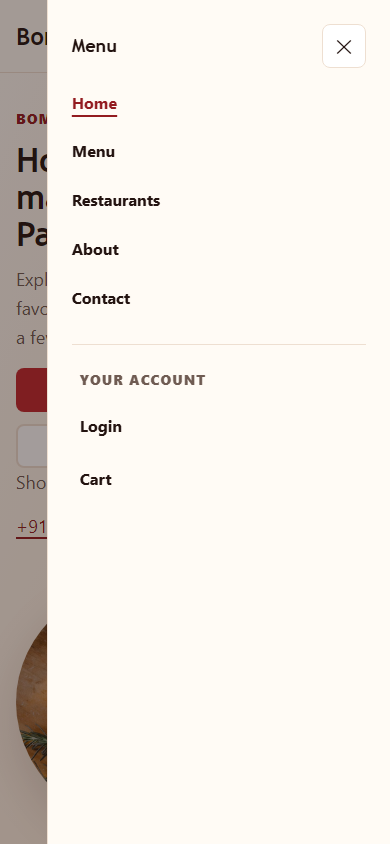
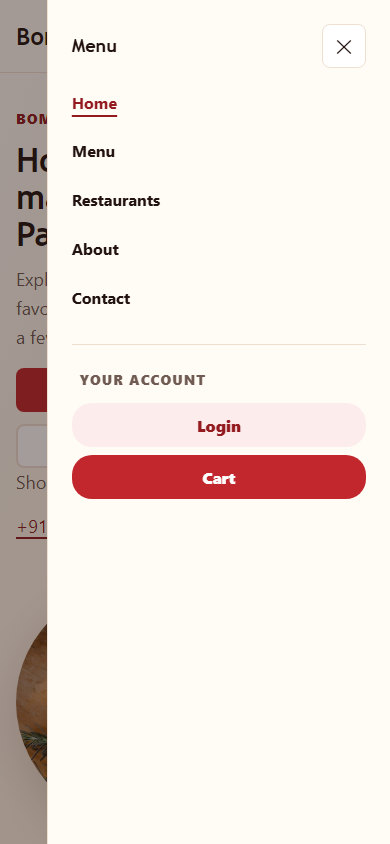
I am fix thinks like add image and nevbar

Changed region(s): [[0.1846, 0.4929, 0.9538, 0.6161]]

diff --git a/css/style.css b/css/style.css
@@ -152,7 +152,8 @@ a:hover { color: var(--color-dark); }
 .hero__meta { display: flex; flex-wrap: wrap; align-items: center; gap: var(--space-2) var(--space-4); }
 .hero__meta__sep { display: none; color: var(--color-muted); }
 
-.category-grid { display: grid; grid-template-columns: repeat(2, minmax(0, 1fr)); gap: var(--space-4); }
+.category-grid { display: grid; grid-template-columns: repeat(2, minmax(0, 1fr)); gap: var(--space-5); }
+.category-section .section__header { margin-bottom: var(--space-7); }
 .category-card { display: grid; justify-items: center; gap: var(--space-2); padding: var(--space-5) var(--space-3); border: 1px solid var(--color-border); border-radius: var(--radius-md); color: var(--color-dark); background: var(--color-surface); font-weight: 800; text-align: center; text-decoration: none; overflow-wrap: anywhere; transition: border-color var(--transition), box-shadow var(--transition), transform var(--transition); }
 .category-card:hover { color: var(--color-dark); border-color: var(--color-primary); box-shadow: var(--shadow-sm); transform: translateY(-3px); }
 .category-card::before { content: attr(data-icon); display: grid; place-items: center; width: 3.25rem; height: 3.25rem; border-radius: 50%; background: var(--color-primary-soft); font-size: var(--text-2xl); }
@@ -166,15 +167,16 @@ a:hover { color: var(--color-dark); }
 .offer-card h3 { margin-top: var(--space-4); color: inherit; }
 .offer-card p { color: inherit; opacity: 0.84; }
 .offer-card strong { font-size: var(--text-lg); }
-.benefit-grid article { padding: var(--space-4) 0; }
-.benefit-icon { display: grid; place-items: center; width: 3rem; height: 3rem; margin-bottom: var(--space-3); border-radius: 50%; color: var(--color-primary-dark); background: var(--color-primary-soft); font-size: var(--text-2xl); }
+.benefit-grid article { height: 100%; padding: var(--space-5); border: 1px solid var(--color-border); border-radius: var(--radius-md); background: var(--color-surface); box-shadow: var(--shadow-sm); transition: box-shadow var(--transition), transform var(--transition); }
+.benefit-grid article:hover { box-shadow: var(--shadow-md); transform: translateY(-3px); }
+.benefit-icon { display: grid; place-items: center; width: 3.5rem; height: 3.5rem; margin-bottom: var(--space-4); border-radius: var(--radius-md); color: var(--color-primary-dark); background: var(--color-primary-soft); font-size: var(--text-2xl); }
 .benefit-grid h3 { margin-bottom: var(--space-2); }
 .benefit-grid p { margin: 0; }
 .review-card { padding: var(--space-5); border-left: 4px solid var(--color-primary); border-radius: 0 var(--radius-md) var(--radius-md) 0; background: var(--color-surface); box-shadow: var(--shadow-sm); }
 .review-card blockquote { margin: var(--space-3) 0; color: var(--color-dark); font-family: var(--font-display); font-size: var(--text-lg); line-height: 1.45; }
 .review-card cite { color: var(--color-muted); font-size: var(--text-xs); font-style: normal; font-weight: 800; }
 .review-card cite span { font-weight: 400; }
-.cta-section { padding-block: var(--space-7); color: #fff; background: var(--color-primary); }
+.cta-section { padding-block: var(--space-7); color: #fff; background-color: var(--color-primary); background-image: linear-gradient(rgb(193 39 45 / 78%), rgb(147 27 32 / 84%)), url("https://images.unsplash.com/photo-1565299624946-b28f40a0ae38?auto=format&fit=crop&w=1600&q=80"); background-size: cover; background-position: center; background-repeat: no-repeat; }
 .cta-section .eyebrow { color: #fff; }
 .cta-section h2 { color: #fff; }
 .cta-section p { color: #fff; opacity: 0.88; }
@@ -377,10 +379,30 @@ button.button--ghost:hover { color: var(--color-dark); background: var(--color-p
 /* Hidden on mobile: the whole block is moved into the drawer by main.js. */
 .navbar__actions { order: 2; display: none; align-items: center; gap: var(--space-4); margin-left: auto; }
 .navbar__cart { display: inline-flex; align-items: center; justify-content: center; gap: 0.4rem; min-width: 2.75rem; padding-inline: 0.5rem; white-space: nowrap; }
+/* Login/Cart render as pill buttons (radius 20px). */
+.navbar__actions .navbar__link {
+	display: inline-flex;
+	align-items: center;
+	justify-content: center;
+	gap: 0.4rem;
+	min-height: 2.75rem;
+	padding: 0.5rem 1.2rem;
+	border-radius: 20px;
+	color: var(--color-primary-dark);
+	background: var(--color-primary-soft);
+	font-weight: 800;
+	text-decoration: none;
+	transition: background var(--transition), color var(--transition);
+}
+.navbar__actions .navbar__link:hover { color: #fff; background: var(--color-primary); }
+.navbar__actions .navbar__link[aria-current="page"] { color: #fff; background: var(--color-primary); text-decoration: none; }
+.navbar__actions .navbar__cart { padding-inline: 1.2rem; color: #fff; background: var(--color-primary); }
+.navbar__actions .navbar__cart:hover { color: #fff; background: var(--color-primary-dark); }
 .navbar__drawer .navbar__actions { display: flex; flex-direction: column; align-items: stretch; gap: var(--space-2); margin-left: 0; }
 .navbar__drawer .navbar__actions .button { width: 100%; justify-content: flex-start; text-align: left; }
-.navbar__drawer .navbar__actions .navbar__link { width: 100%; padding-inline: var(--space-2); }
-.navbar__drawer .navbar__cart { justify-content: flex-start; }
+.navbar__drawer .navbar__actions .navbar__link { width: 100%; justify-content: center; padding-inline: var(--space-4); }
+.navbar__drawer .navbar__actions .navbar__cart:hover { color: #fff; background: var(--color-primary-dark); }
+.navbar__drawer .navbar__cart { justify-content: center; }
 .navbar__drawer .navbar__link:hover { color: var(--color-primary-dark); background: var(--color-primary-soft); }
 body.navbar-drawer-open { overflow: hidden; }
 
@@ -394,10 +416,14 @@ body.navbar-drawer-open { overflow: hidden; }
 .footer h3,
 .footer h4 { color: #fff; }
 .footer p,
-.footer a { color: #d8c5b9; }
+.footer a { color: #d8c5b9; text-decoration: none; }
 .footer a:hover { color: #fff; }
+.footer__grid h3 { display: inline-block; margin-bottom: var(--space-4); padding-bottom: 0.35rem; border-bottom: 2px solid var(--color-primary); font-size: var(--text-base); letter-spacing: 0.06em; text-transform: uppercase; }
 .footer__grid { display: grid; grid-template-columns: minmax(0, 1fr); gap: var(--space-6); }
 .footer__grid > div { min-width: 0; }
+.footer__grid p { margin-bottom: var(--space-3); }
+.footer__grid p a:not(.button) { transition: transform var(--transition); }
+.footer__grid p a:not(.button):hover { color: #fff; transform: translateX(3px); }
 .footer__bottom { display: flex; flex-wrap: wrap; align-items: center; justify-content: space-between; gap: var(--space-2) var(--space-5); padding-top: var(--space-5); margin-top: var(--space-6); border-top: 1px solid rgb(255 255 255 / 18%); }
 .footer__bottom > p { margin: 0; }
 .footer__bottom .form__hint { flex-basis: 100%; opacity: 0.75; }
@@ -465,6 +491,23 @@ main[tabindex="-1"]:focus { outline: none; }
 .food-card__buttons .button { white-space: nowrap; }
 .food-grid,
 .restaurant-grid { display: grid; grid-template-columns: 1fr; gap: var(--space-5); }
+
+/* Card polish */
+.food-card__image,
+.restaurant-card__image { transition: transform 320ms ease; }
+.food-card:hover .food-card__image,
+.restaurant-card:hover .restaurant-card__image { transform: scale(1.05); }
+.food-card__body,
+.restaurant-card__body { padding: var(--space-5); }
+.food-card__meta,
+.restaurant-card__meta { margin-bottom: var(--space-3); }
+.food-card__body h2,
+.food-card__body h3,
+.restaurant-card__body h2 { margin-bottom: var(--space-2); }
+.food-card__description { margin-bottom: var(--space-4); }
+.food-card__price { color: var(--color-primary-dark); font-size: var(--text-lg); font-weight: 900; }
+.food-card__actions { border-top: 1px dashed var(--color-border); }
+.restaurant-card__body .button { margin-top: auto; align-self: flex-start; }
 
 .restaurant-filter-grid,
 .checkout-fields { display: grid; grid-template-columns: 1fr; gap: var(--space-4); }
@@ -698,7 +741,7 @@ textarea:focus-visible { outline: 3px solid var(--color-accent); outline-offset:
 	.hero__meta__sep { display: inline; }
 	.food-grid,
 	.restaurant-grid { grid-template-columns: repeat(2, minmax(0, 1fr)); }
-	.category-grid { gap: var(--space-5); }
+	.category-grid { gap: var(--space-6); }
 	.footer__grid { grid-template-columns: repeat(2, minmax(0, 1fr)); gap: var(--space-6) var(--space-7); }
 	.category-grid { grid-template-columns: repeat(3, 1fr); }
 	.restaurant-filter-grid,

diff --git a/js/restaurants.js b/js/restaurants.js
@@ -1,12 +1,25 @@
+function formatRestaurantPrice(restaurant) {
+	const menuItems = typeof foodItems !== "undefined" ? foodItems.filter((item) => item.restaurantId === restaurant.id) : [];
+	if (menuItems.length) {
+		const averagePrice = Math.round(menuItems.reduce((sum, item) => sum + item.price, 0) / menuItems.length);
+		const priceForTwo = Math.round((averagePrice * 2) / 50) * 50;
+		return `₹${priceForTwo} for two`;
+	}
+	const fallbackPrices = { "$": "₹400 for two", "$$": "₹700 for two", "$$$": "₹1200 for two" };
+	return fallbackPrices[restaurant.priceRange] || "₹700 for two";
+}
+
 function renderRestaurantCard(restaurant) {
+	const priceLabel = formatRestaurantPrice(restaurant);
+	const priceBadge = restaurant.priceRange.replace(/\$/g, "₹");
 	return `
 		<article class="restaurant-card">
 			<img class="restaurant-card__image" src="${restaurant.image}" alt="${escapeHtml(restaurant.name)} cuisine" width="800" height="500" loading="lazy">
 			<div class="restaurant-card__body">
-				<div class="restaurant-card__meta"><span class="badge ${restaurant.featured ? "badge--accent" : ""}">${restaurant.featured ? "Featured" : escapeHtml(restaurant.priceRange)}</span><span class="rating" aria-label="${restaurant.rating} out of 5 stars">★ ${restaurant.rating}</span></div>
+				<div class="restaurant-card__meta"><span class="badge ${restaurant.featured ? "badge--accent" : ""}">${restaurant.featured ? "Featured" : priceBadge}</span><span class="rating" aria-label="${restaurant.rating} out of 5 stars">★ ${restaurant.rating}</span></div>
 				<h2>${escapeHtml(restaurant.name)}</h2>
 				<p class="restaurant-card__description">${escapeHtml(restaurant.cuisine)}</p>
-				<div class="restaurant-card__meta"><span>${escapeHtml(restaurant.priceRange)} · ${escapeHtml(restaurant.deliveryTime)}</span><span>${escapeHtml(restaurant.location)}</span></div>
+				<div class="restaurant-card__meta"><span>${priceLabel} · ${escapeHtml(restaurant.deliveryTime)}</span><span>${escapeHtml(restaurant.location)}</span></div>
 				<a class="button button--secondary button--small" href="menu.html?restaurant=${encodeURIComponent(restaurant.id)}">View Menu</a>
 			</div>
 		</article>`;
@@ -75,7 +88,7 @@ function initializeRestaurantPage() {
 					<div class="restaurant-filter-grid">
 						<div class="form__group"><label class="form__label" for="cuisine-filter">Cuisine</label><select class="select" id="cuisine-filter" data-cuisine-filter><option value="">All cuisines</option>${cuisines.map((cuisine) => `<option value="${escapeHtml(cuisine)}">${escapeHtml(cuisine)}</option>`).join("")}</select></div>
 						<div class="form__group"><label class="form__label" for="rating-filter">Minimum rating</label><select class="select" id="rating-filter" data-rating-filter><option value="">Any rating</option><option value="4">4.0+ stars</option><option value="4.5">4.5+ stars</option><option value="4.8">4.8+ stars</option></select></div>
-						<div class="form__group"><label class="form__label" for="price-filter">Price range</label><select class="select" id="price-filter" data-price-filter><option value="">Any price</option><option value="$">$ · Budget</option><option value="$$">$$ · Mid-range</option><option value="$$$">$$$ · Premium</option></select></div>
+						<div class="form__group"><label class="form__label" for="price-filter">Price range</label><select class="select" id="price-filter" data-price-filter><option value="">Any price</option><option value="$">₹ · Budget</option><option value="$$">₹₹ · Mid-range</option><option value="$$$">₹₹₹ · Premium</option></select></div>
 						<div class="form__group"><label class="form__label" for="sort-filter">Sort by</label><select class="select" id="sort-filter" data-sort-filter><option value="name-asc">Name A-Z</option><option value="rating-desc">Top rated</option><option value="delivery-asc">Fastest delivery</option></select></div>
 					</div>
 					<div class="restaurant-filter-actions"><button class="button button--secondary button--small" type="button" data-clear-filters>Clear filters</button><span class="form__hint" data-result-count aria-live="polite">Loading restaurants...</span></div>

diff --git a/js/data.js b/js/data.js
@@ -234,5 +234,7 @@ const reviews = [
 	{ id: "review-004", restaurantId: "rest-004", foodItemId: "food-010", customerName: "Meera Iyer", rating: 5, comment: "Juicy smash patties and perfectly crisp fries. Great comfort food.", date: "2026-08-10", verifiedOrder: true },
 	{ id: "review-005", restaurantId: "rest-005", foodItemId: "food-015", customerName: "Rohan Das", rating: 4, comment: "The ramen broth was deeply savoury and the vegetables were fresh.", date: "2026-08-07", verifiedOrder: true },
 	{ id: "review-006", restaurantId: "rest-006", foodItemId: "food-016", customerName: "Ananya Pillai", rating: 5, comment: "Crisp dosa, generous masala, and the chutney had just the right heat.", date: "2026-08-05", verifiedOrder: true },
-	{ id: "review-007", restaurantId: "rest-008", foodItemId: "food-022", customerName: "Vikram Singh", rating: 5, comment: "The cake was moist, glossy, and not overly sweet. Will order again.", date: "2026-08-02", verifiedOrder: true }
+	{ id: "review-007", restaurantId: "rest-008", foodItemId: "food-022", customerName: "Vikram Singh", rating: 5, comment: "The cake was moist, glossy, and not overly sweet. Will order again.", date: "2026-08-02", verifiedOrder: true },
+	{ id: "review-008", restaurantId: "rest-003", foodItemId: "food-026", customerName: "Simran Kaur", rating: 5, comment: "The cheese burst was molten and the crust had a perfect chew. Delivered hot in under 30 minutes.", date: "2026-08-15", verifiedOrder: true },
+	{ id: "review-009", restaurantId: "rest-003", foodItemId: "food-028", customerName: "Arjun Mehta", rating: 5, comment: "Paneer tikka pizza was loaded with toppings and the smoky flavour came through in every bite.", date: "2026-08-14", verifiedOrder: true }
 ];

diff --git a/about.html b/about.html
@@ -15,7 +15,7 @@
 <meta name="twitter:card" content="summary_large_image">
 	<link rel="stylesheet" href="css/style.css">
 	<style>
-		.about-hero { padding: 4rem 0; background: linear-gradient(120deg, var(--color-dark), #573528); background-color: var(--color-dark); }
+		.about-hero { padding: 4rem 0; background: linear-gradient(120deg, rgb(35 19 16 / 85%), rgb(87 53 40 / 75%)), url("https://images.unsplash.com/photo-1574071318508-1cdbab80d002?auto=format&fit=crop&w=1600&q=80") center / cover no-repeat; background-color: var(--color-dark); }
 		.about-hero h1, .about-hero p { color: #fff; }
 		.about-hero p { max-width: 42rem; font-size: var(--text-lg); opacity: .86; }
 		.about-copy { max-width: 44rem; }
@@ -33,7 +33,7 @@
 		.achievement-list { display: grid; gap: var(--space-3); padding: 0; list-style: none; }
 		.achievement-list li { padding: var(--space-4); border: 1px solid var(--color-border); border-radius: var(--radius-sm); background: var(--color-surface); }
 		.achievement-list strong { display: block; margin-bottom: var(--space-1); }
-		.about-cta { padding: var(--space-7) 0; color: #fff; background: var(--color-accent); }
+		.about-cta { padding: var(--space-7) 0; color: #fff; background: linear-gradient(rgb(31 111 91 / 84%), rgb(31 111 91 / 90%)), url("https://images.unsplash.com/photo-1593560708920-61dd98c46a4e?auto=format&fit=crop&w=1600&q=80") center / cover no-repeat; background-color: var(--color-accent); }
 		.about-cta h2, .about-cta p { color: #fff; }
 		@media (min-width: 40rem) {
 			.about-hero { padding: 6rem 0; }
